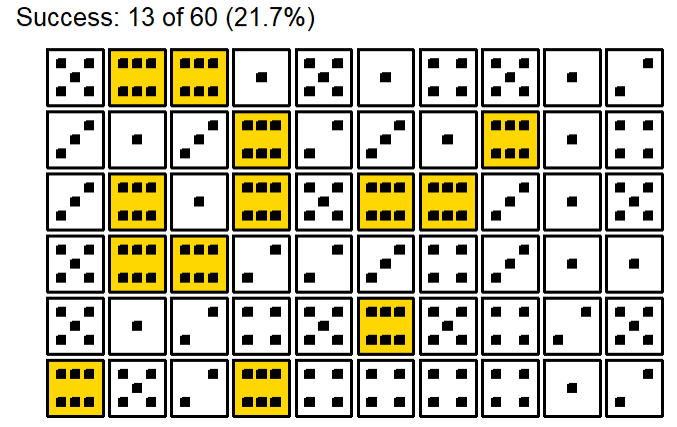
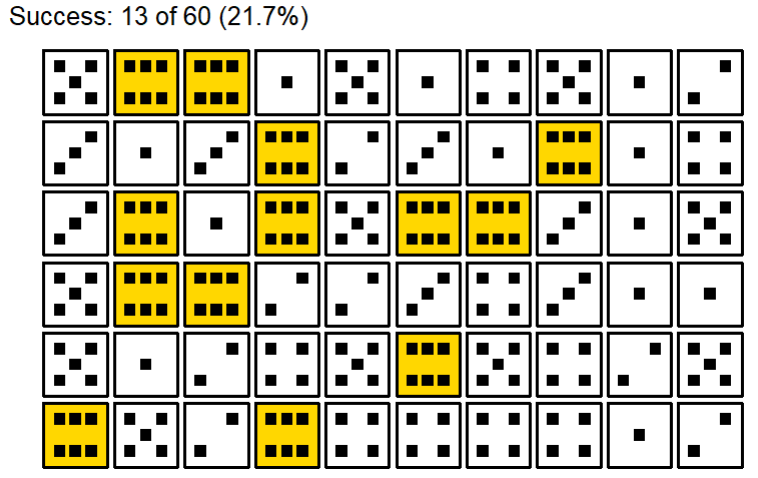
better dots

diff --git a/README.md b/README.md
@@ -46,8 +46,33 @@ Let's roll 60 dice:
 library(tidydice)
 
 # roll 60 dice (10 x 6 dice = 60)
-roll_dice(times = 10, rounds = 6) |> 
-  plot(dice)
+data <- roll_dice(times = 10, rounds = 6)
+data
+```
+
+We get tidy data, where each row is a dice. It is a success, if the result is a 6.
+
+```
+# A tibble: 60 × 5
+   experiment round    nr result success
+        <int> <int> <int>  <int> <lgl>  
+ 1          1     1     1      5 FALSE  
+ 2          1     1     2      6 TRUE   
+ 3          1     1     3      6 TRUE   
+ 4          1     1     4      1 FALSE  
+ 5          1     1     5      5 FALSE  
+ 6          1     1     6      1 FALSE  
+ 7          1     1     7      4 FALSE  
+ 8          1     1     8      5 FALSE  
+ 9          1     1     9      1 FALSE  
+10          1     1    10      2 FALSE  
+# … with 50 more rows
+```
+
+Now let's plot it:
+
+```r
+data |> plot_dice()
 ```
 
 <img src="man/figures/tidydice-roll-dice-60.png" alt="Roll 60 dice" width="600">
